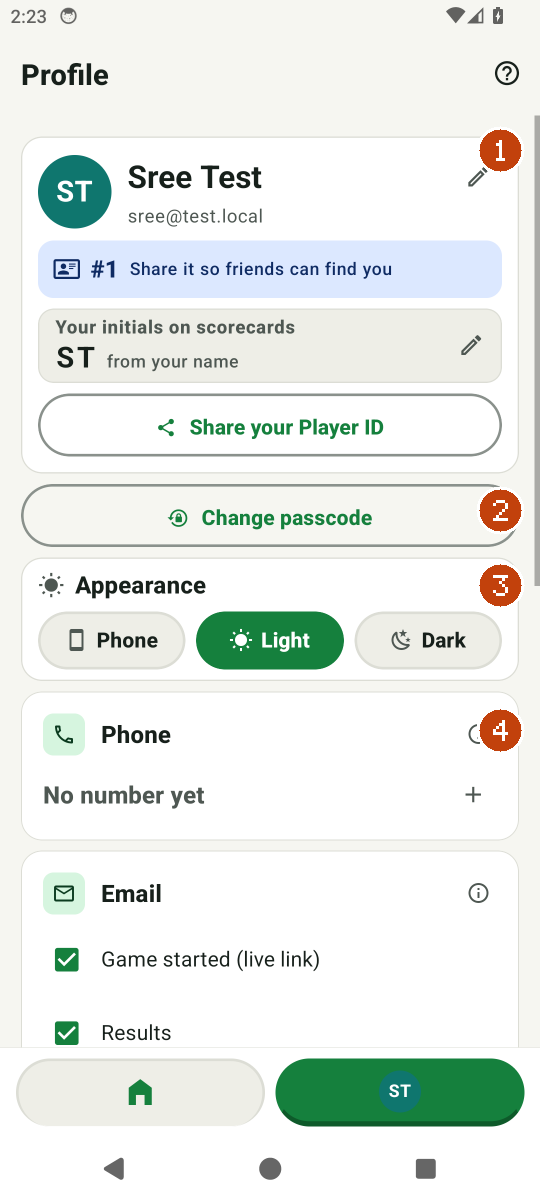
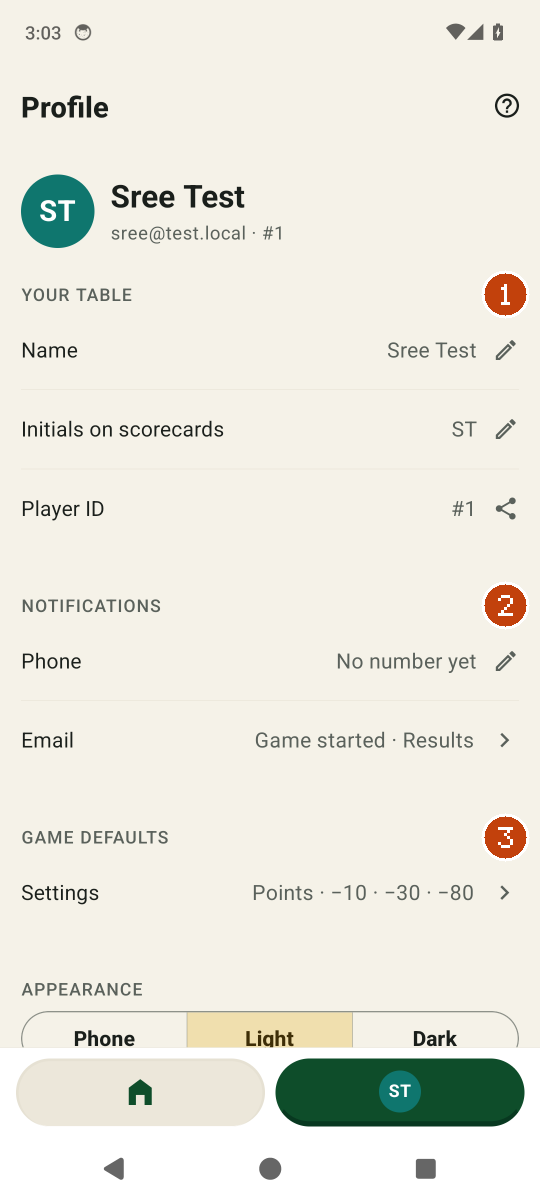
Help: the Me picture is today's grouped Profile, with a three-line legend (D103 follow-on)

diff --git a/rummy-home3/constants/helpTopics.ts b/rummy-home3/constants/helpTopics.ts
@@ -814,8 +814,7 @@ const topics: Record<HelpTopicKey, Omit<HelpTopic, 'key'>> = {
       legend: [
         'Your name and #ID at the top; under **Your table**, tap a row to edit your name or initials. The **Player ID** row is just the number: tell it to a friend so they can find you.',
         '**Notifications**: Phone and the Email switches, each in its own sheet.',
-        '**Game defaults** opens Settings; **Appearance**: Phone, Light or Dark.',
-        '**Account**: Change passcode, Privacy policy, Delete account, Log out.',
+        '**Game defaults** opens Settings; **Appearance**: Phone, Light or Dark. Further down, **Account**: Change passcode, Privacy policy, Delete account, Log out.',
       ],
     },
     sections: [
